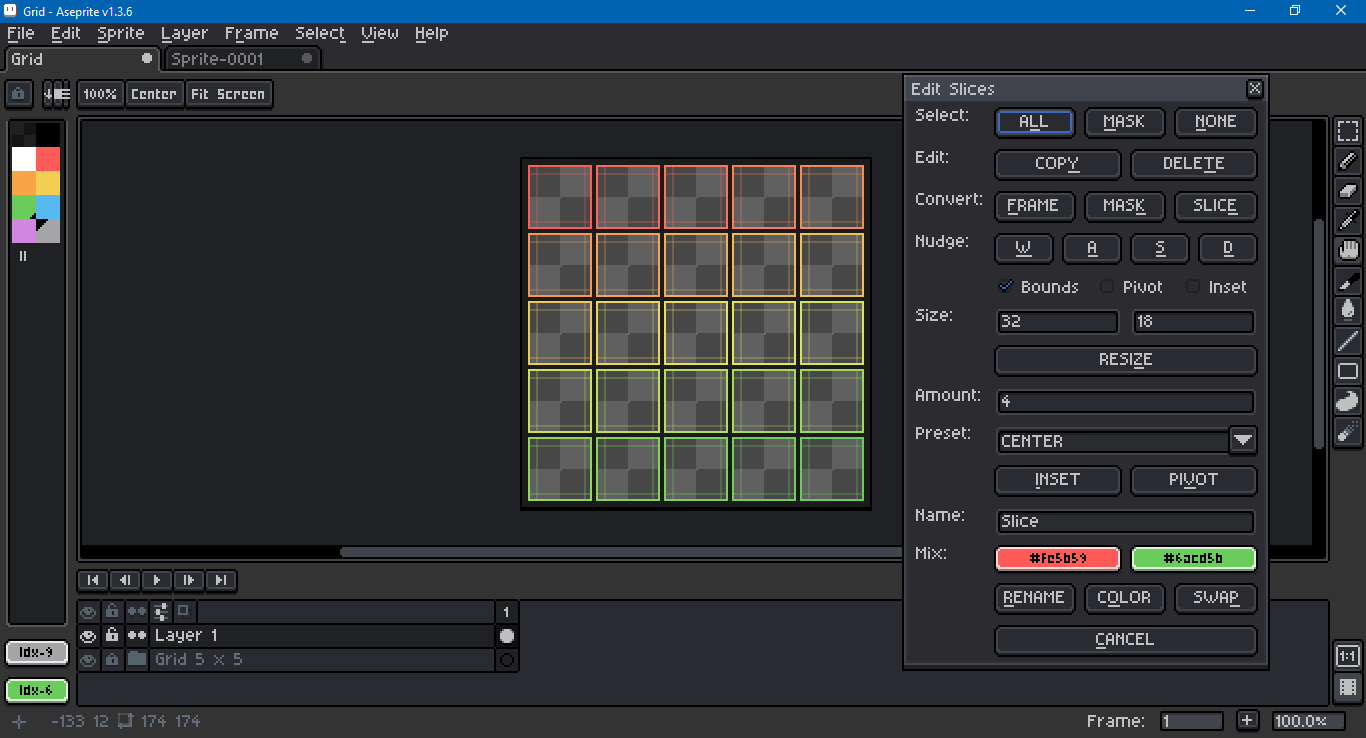
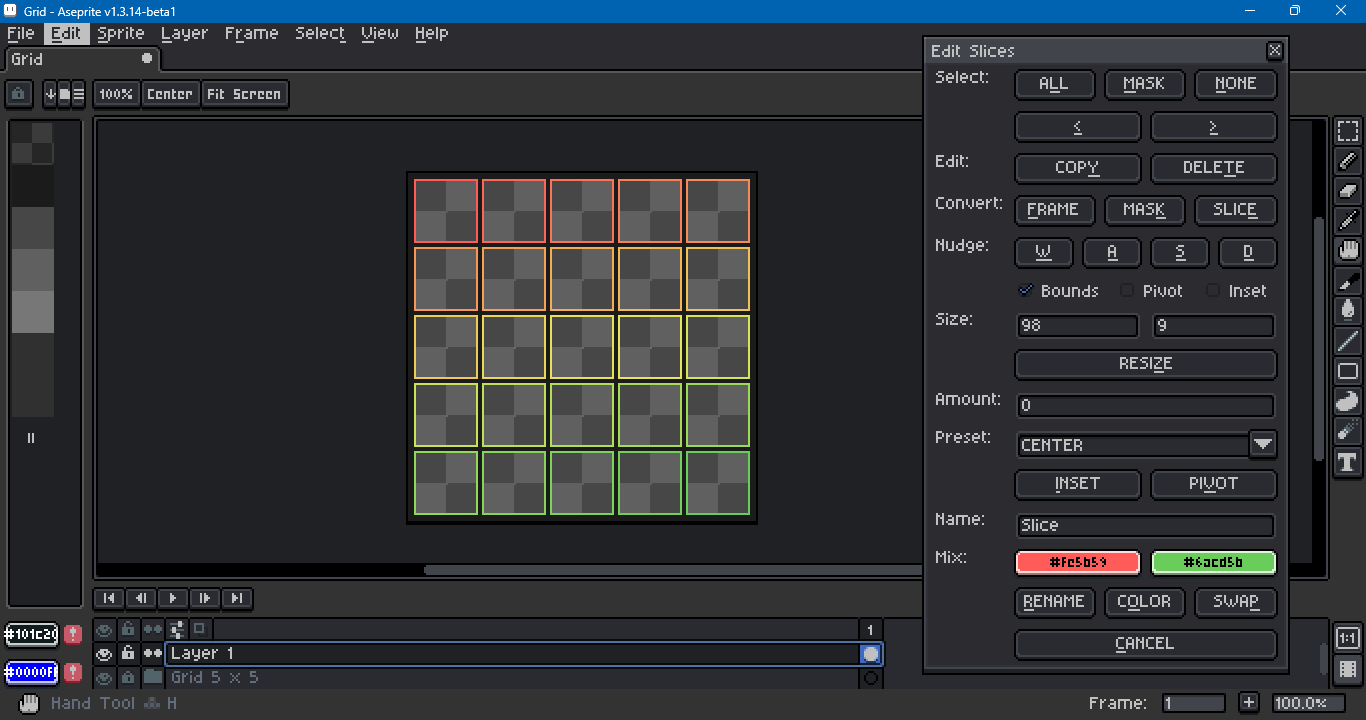
Add next and previous slice buttons.

diff --git a/README.md b/README.md
@@ -36,6 +36,8 @@ The features of this dialog, per each button, are:
 - **All**: Selects all the sprite's slices.
 - **Mask**: Gets the slices entirely contained by the selection mask.
 - **None**: Deselects all the sprite's slices.
+- **Next**: Selects the next slice.
+- **Previous**: Selects the previous slice.
 - **Copy**: Partially copies the selected slices, avoiding custom user data and properties. Inverts the slices' colors. Warns before execution.
 - **Delete**: Deletes the selected slices. Warns before execution.
 - **Frame**: Creates multiple slices from the cels in the active frame.
